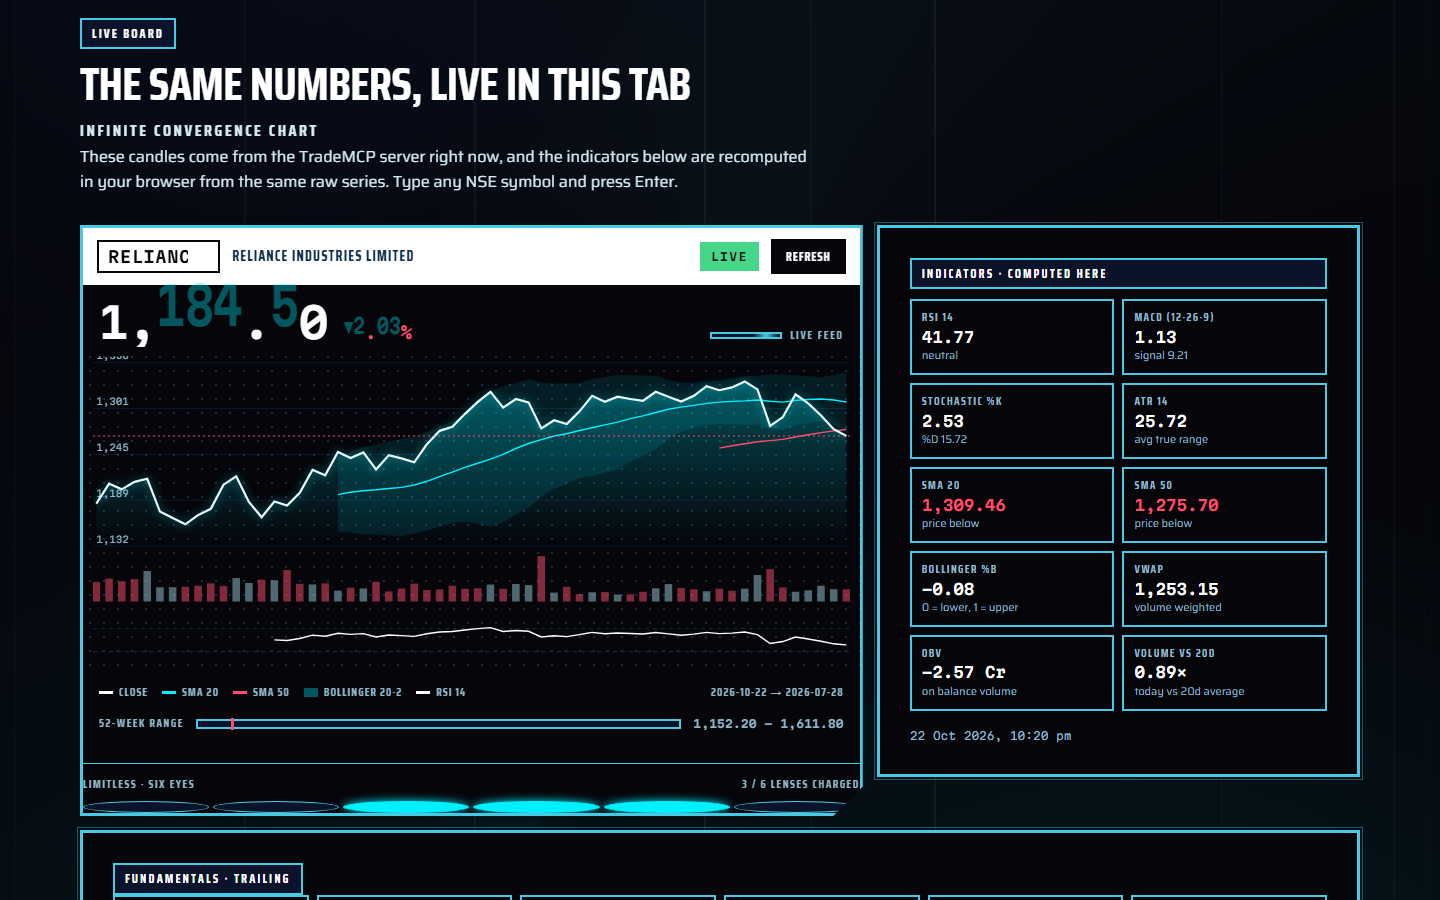
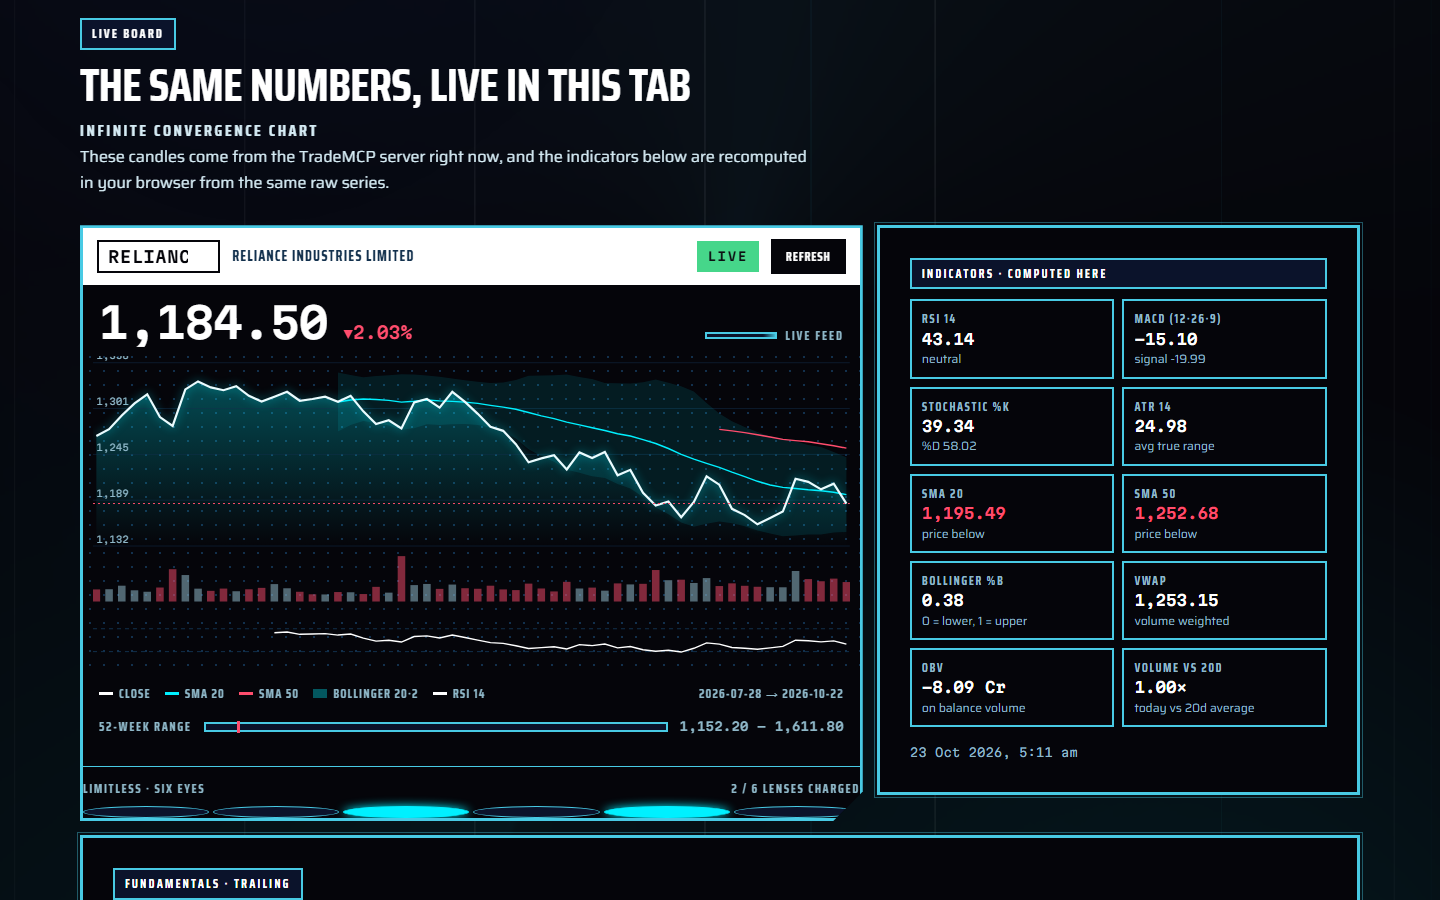
Re-shoot the stills against the page that now ships
The six stills in the README were shot against the page before the fix
batch, so two of them were showing the bugs the batch fixed: the live
board still ran the price line right-to-left, with the newest close on the
left and the oldest on the right, which read as a rising market on a
falling one. The screener still showed a tool call that asked for 20 rows
while the table beside it held 50.

The crop offsets move with the page. The live board and the screener both
sit lower now, so the frames move with them, and the screener frame is
1100px tall instead of 900: the taller slider hit areas push the "send
this to your agent" panel down, and that panel is worth showing.

The chart in 04-live-board-shrine.png now runs 2026-07-28 to 2026-10-22
and falls. The cleave line moved to the left because it marks the biggest
single-day move of the series, and the series is now in the right order.

scripts/capture_screenshots.py grows a per-frame height, which is what the
screener frame needs.

diff --git a/scripts/capture_screenshots.py b/scripts/capture_screenshots.py
@@ -35,8 +35,8 @@ FRAME = 900
 # The tall frame must be at least offset + FRAME for every crop it feeds.
 PLAN = {
     "paper": (FRAME, [("01-paper", 0)]),
-    "void": (3400, [("02-infinite-void", 0), ("05-live-board-void", 1150)]),
-    "shrine": (3800, [("03-malevolent-shrine", 0), ("04-live-board-shrine", 1406), ("06-screener", 2496)]),
+    "void": (3400, [("02-infinite-void", 0), ("05-live-board-void", 1205)]),
+    "shrine": (3800, [("03-malevolent-shrine", 0), ("04-live-board-shrine", 1465), ("06-screener", 2566, 1100)]),
 }
 
 
@@ -70,7 +70,7 @@ def run_chrome(chrome: str, url: str, out: Path, height: int, profile: Path) -> 
         raise SystemExit(f"Chrome produced no screenshot for {url}")
 
 
-def crop(chrome: str, src: Path, out: Path, offset: int, profile: Path) -> None:
+def crop(chrome: str, src: Path, out: Path, offset: int, profile: Path, height: int = FRAME) -> None:
     """Cut a frame out of a tall capture by rendering the PNG in a wrapper."""
     page = src.with_suffix(".frame.html")
     page.write_text(
@@ -81,7 +81,7 @@ def crop(chrome: str, src: Path, out: Path, offset: int, profile: Path) -> None:
         f"<img src='file:///{src.as_posix()}'>",
         encoding="utf-8",
     )
-    run_chrome(chrome, page.as_uri(), out, FRAME, profile)
+    run_chrome(chrome, page.as_uri(), out, height, profile)
     page.unlink(missing_ok=True)
 
 
@@ -104,13 +104,15 @@ def main() -> None:
             url = f"{base}?flat=1&theme={theme}"
             print(f"capture {tall.name} <- {url}")
             run_chrome(chrome, url, tall, height, profile)
-            for name, offset in frames:
+            for frame in frames:
+                name, offset = frame[0], frame[1]
+                frame_height = frame[2] if len(frame) > 2 else FRAME
                 target = out_dir / f"{name}.png"
-                print(f"  frame {target.name} at y={offset}")
-                if offset == 0 and height == FRAME:
+                print(f"  frame {target.name} at y={offset} h={frame_height}")
+                if offset == 0 and height == frame_height:
                     shutil.copyfile(tall, target)
                 else:
-                    crop(chrome, tall, target, offset, profile)
+                    crop(chrome, tall, target, offset, profile, frame_height)
             tall.unlink(missing_ok=True)
     print(f"\nScreenshots written to {out_dir}")
 
